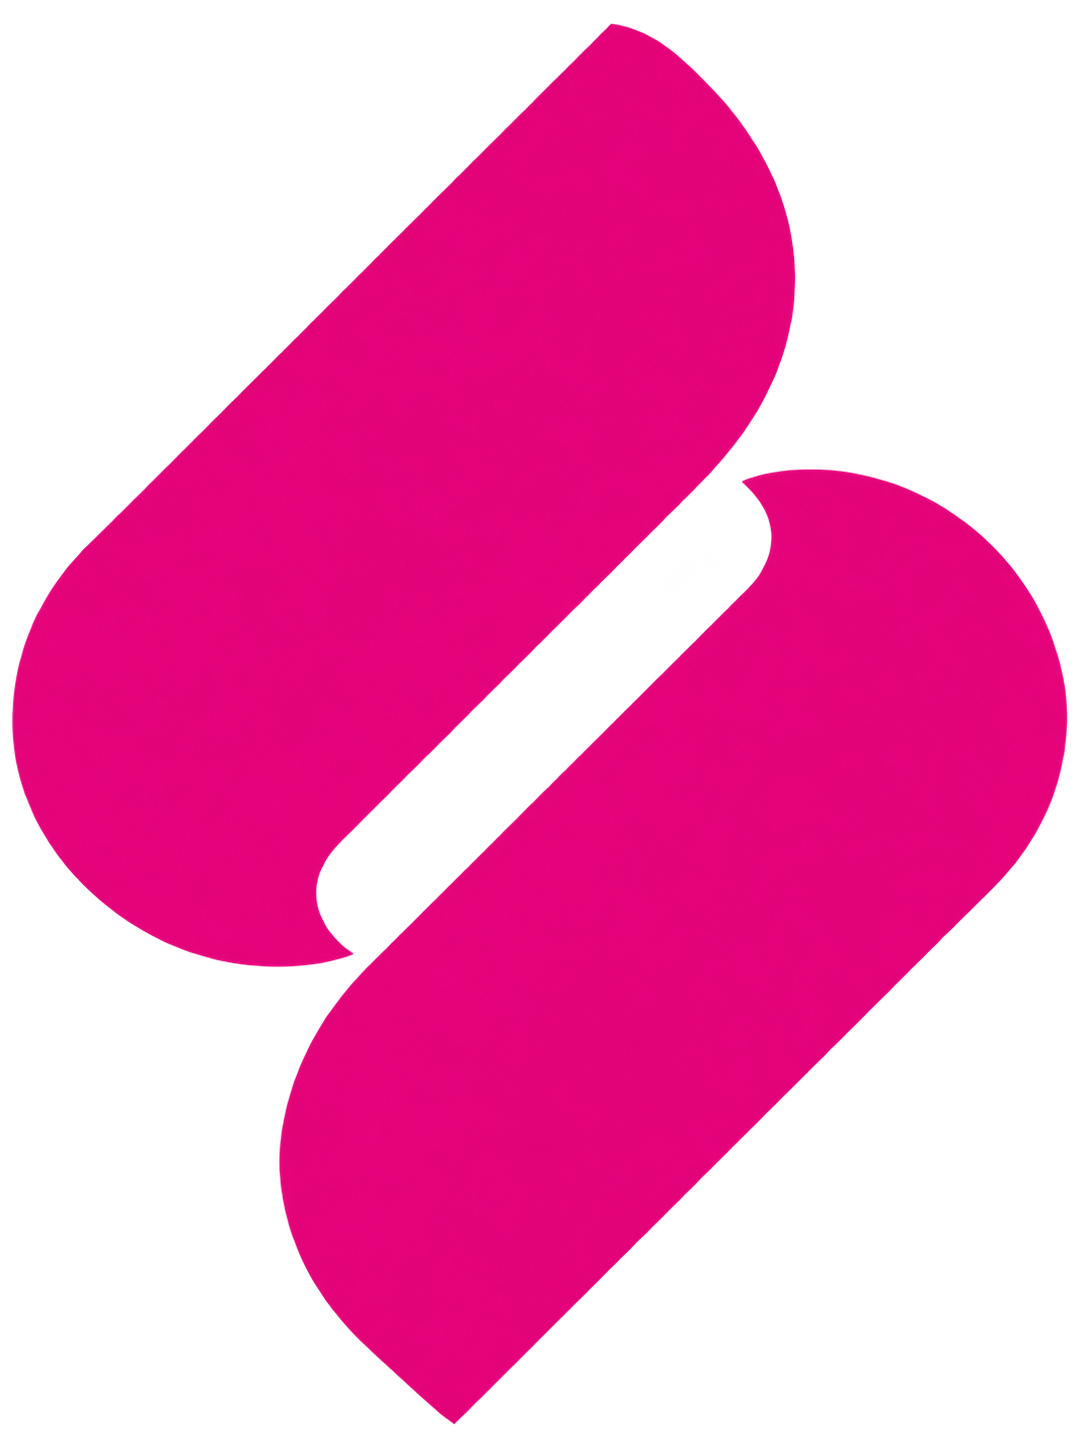
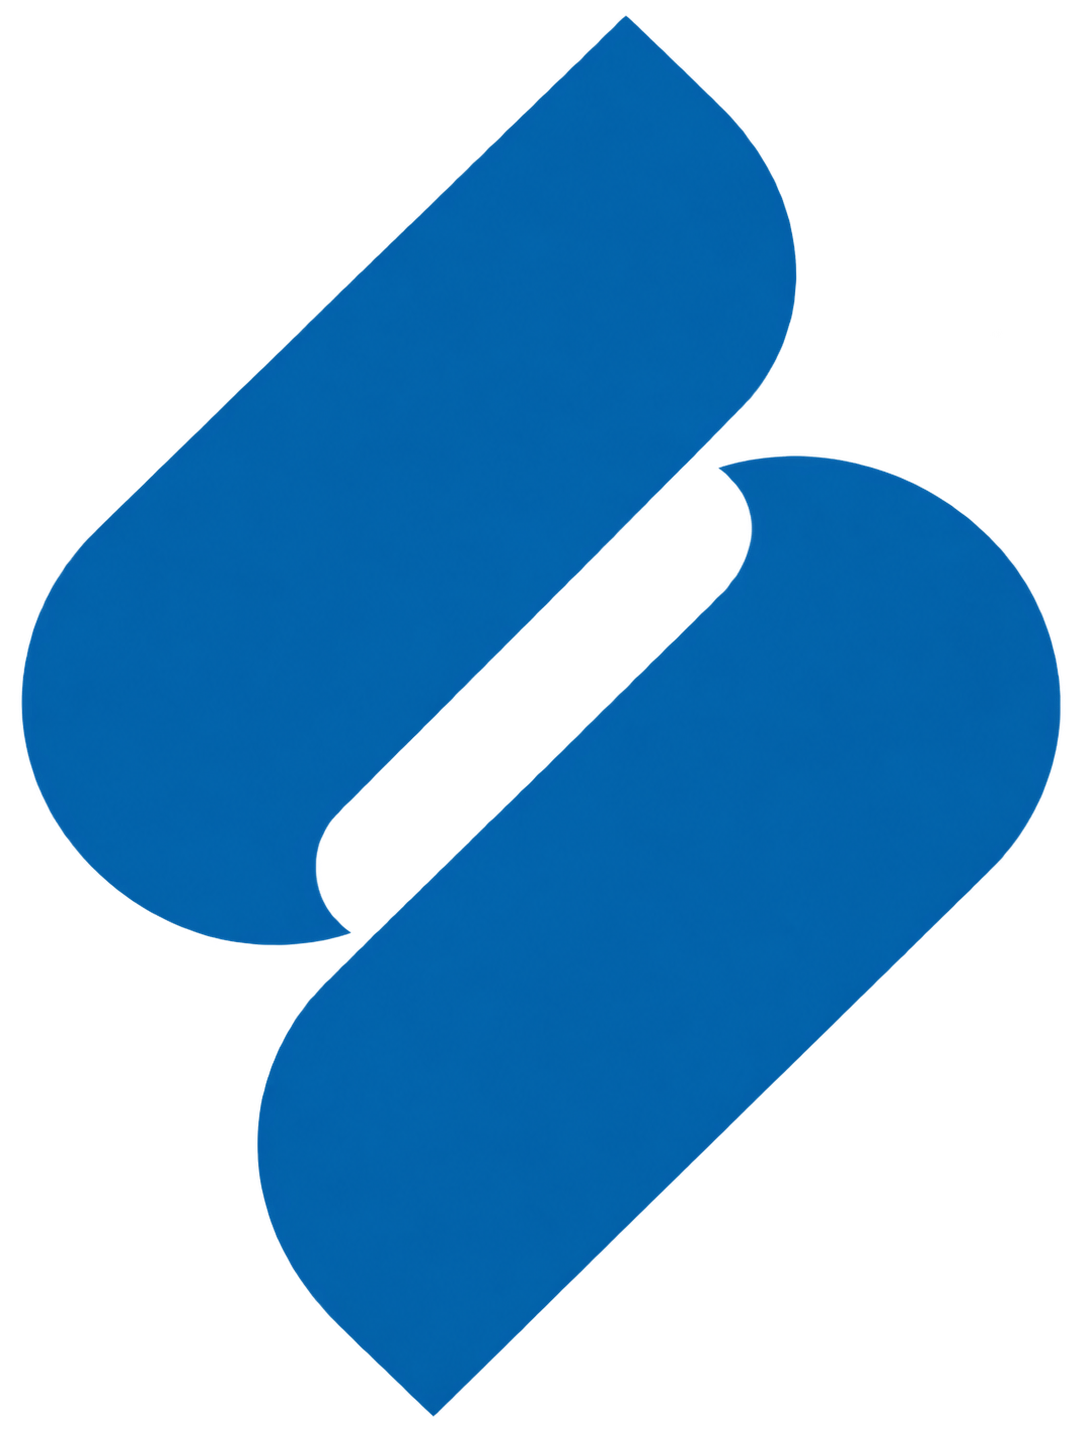
Rebrand line to Sagama Industrial
Same code as Maxi, swapped brand surface only:
- Primary color magenta (#e6007e/#b8005f) -> blue (#006fb5/#005991)
  across globals.css theme tokens, sidebar/header brand-locked
  surfaces, and hardcoded header icon colors.
- Wordmark/background images pointed at the *_INDUSTRIAL branding
  assets; unused Maxi images removed. app icon.png swapped for the
  Industrial mark; generated public/branding/icon-square.png (push
  notification icon) by recoloring/cropping it to match the other
  lines' padding.
- "Sagama Maxi" text/alt/aria-label copy -> "Sagama Industrial".
- App title XLR9-MX -> XLR9-IN, theme picker entry "Magenta" -> "Azure".
- Replaced docker-build-maxi.yml with docker-build-industrial.yml,
  builds ghcr.io/soportetisagama-lab/wacrm:xlr9-industrial from
  INDUSTRIAL_-prefixed repo secrets on push to xlr9-industrial.

diff --git a/src/components/layout/header.tsx b/src/components/layout/header.tsx
@@ -90,12 +90,12 @@ export function Header({
             header's secondary controls; the mobile header is already
             tight with the hamburger + title. */}
         <div className="hidden shrink-0 items-center gap-1.5 sm:flex">
-          <FullscreenToggle className="h-10 w-10 shrink-0 rounded-full border-2 border-white/15 bg-white text-[#e6007e] shadow-[0_3px_10px_rgba(0,0,0,0.25)] transition-all duration-300 hover:scale-[1.07] hover:border-white/30 hover:bg-[#162028] hover:text-white" />
+          <FullscreenToggle className="h-10 w-10 shrink-0 rounded-full border-2 border-white/15 bg-white text-[#006fb5] shadow-[0_3px_10px_rgba(0,0,0,0.25)] transition-all duration-300 hover:scale-[1.07] hover:border-white/30 hover:bg-[#162028] hover:text-white" />
           {onToggleSidebarCollapsed && (
             <SidebarCollapseToggle
               collapsed={sidebarCollapsed}
               onToggle={onToggleSidebarCollapsed}
-              className="h-10 w-10 shrink-0 rounded-full border-2 border-white/15 bg-white text-[#e6007e] shadow-[0_3px_10px_rgba(0,0,0,0.25)] transition-all duration-300 hover:scale-[1.07] hover:border-white/30 hover:bg-[#162028] hover:text-white"
+              className="h-10 w-10 shrink-0 rounded-full border-2 border-white/15 bg-white text-[#006fb5] shadow-[0_3px_10px_rgba(0,0,0,0.25)] transition-all duration-300 hover:scale-[1.07] hover:border-white/30 hover:bg-[#162028] hover:text-white"
             />
           )}
         </div>
@@ -106,7 +106,7 @@ export function Header({
       </div>
 
       <div className="flex items-center gap-1.5 sm:gap-2.5">
-        <ModeToggle className="h-10 w-10 shrink-0 rounded-full border-2 border-white/15 bg-white text-[#e6007e] shadow-[0_3px_10px_rgba(0,0,0,0.25)] transition-all duration-300 hover:scale-[1.07] hover:border-white/30 hover:bg-[#162028] hover:text-white" />
+        <ModeToggle className="h-10 w-10 shrink-0 rounded-full border-2 border-white/15 bg-white text-[#006fb5] shadow-[0_3px_10px_rgba(0,0,0,0.25)] transition-all duration-300 hover:scale-[1.07] hover:border-white/30 hover:bg-[#162028] hover:text-white" />
 
         {/* Notifications â€” same unread count the sidebar's nav item
             surfaces, mirrored here as a quick-glance bell. */}
@@ -156,7 +156,7 @@ export function Header({
                 alt={profile.full_name ?? t("defaultAvatar")}
               />
             ) : null}
-            <AvatarFallback className="bg-white text-sm font-medium text-[#e6007e]">
+            <AvatarFallback className="bg-white text-sm font-medium text-[#006fb5]">
               {initial}
             </AvatarFallback>
           </Avatar>

diff --git a/src/app/globals.css b/src/app/globals.css
@@ -142,13 +142,13 @@ html[data-mode="light"] {
 
 :root,
 html[data-theme="violet"] {
-  --primary: #e6007e;
+  --primary: #006fb5;
   --primary-foreground: #ffffff;
-  --primary-hover: #f0339c;
-  --primary-soft: rgba(230, 0, 126, 0.12);
-  --primary-soft-2: rgba(230, 0, 126, 0.22);
-  --ring: #e6007e;
-  --chart-1: #e6007e;
+  --primary-hover: #338cc4;
+  --primary-soft: rgba(0, 111, 181, 0.12);
+  --primary-soft-2: rgba(0, 111, 181, 0.22);
+  --ring: #006fb5;
+  --chart-1: #006fb5;
 }
 
 html[data-theme="emerald"] {
@@ -196,7 +196,7 @@ html[data-theme="rose"] {
 }
 
 /* ---- SIDEBAR: brand-locked surface ----
- * The primary nav is a fixed brand element (Sagama Maxi magenta),
+ * The primary nav is a fixed brand element (Sagama Industrial blue),
  * independent of the MODE/ACCENT system above — it doesn't change with
  * light/dark mode or the user's chosen accent color. --sidebar-accent-dim
  * and --sidebar-sub aren't part of shadcn's default sidebar token set;
@@ -207,10 +207,10 @@ html[data-theme="rose"] {
   --sidebar-border: rgba(255, 255, 255, 0.08);
   --sidebar-accent: rgba(255, 255, 255, 0.05);
   --sidebar-accent-foreground: #ffffff;
-  --sidebar-accent-dim: rgba(230, 0, 126, 0.16);
-  --sidebar-primary: #e6007e;
+  --sidebar-accent-dim: rgba(0, 111, 181, 0.16);
+  --sidebar-primary: #006fb5;
   --sidebar-primary-foreground: #ffffff;
-  --sidebar-ring: #e6007e;
+  --sidebar-ring: #006fb5;
   --sidebar-sub: #1c252e;
 }
 
@@ -218,8 +218,8 @@ html[data-theme="rose"] {
  * The topbar is a fixed brand element too, same rationale as the
  * SIDEBAR block above — independent of light/dark mode. */
 :root {
-  --header-bg: #e6007e;
-  --header-bg-2: #b8005f;
+  --header-bg: #006fb5;
+  --header-bg-2: #005991;
 }
 
 /* Notification bell — ring wobble on the icon, an expanding pulse ring

diff --git a/src/components/auth/auth-logo-header.tsx b/src/components/auth/auth-logo-header.tsx
@@ -1,7 +1,7 @@
 import Image from 'next/image';
 
 // Shared header for the "form" state of each auth screen: the Sagama
-// Maxi wordmark, an optional bold heading, and an optional description
+// Industrial wordmark, an optional bold heading, and an optional description
 // line.
 export function AuthLogoHeader({
   title,
@@ -19,8 +19,8 @@ export function AuthLogoHeader({
           actually grow (~10-14%) instead of the cap silently doing
           nothing. */}
       <Image
-        src="/branding/BIENVENIDO_MAXI.png"
-        alt="Bienvenido a Sagama Maxi"
+        src="/branding/BIENVENIDO_INDUSTRIAL.png"
+        alt="Bienvenido a Sagama Industrial"
         width={862}
         height={134}
         priority

diff --git a/src/components/auth/welcome-splash.tsx b/src/components/auth/welcome-splash.tsx
@@ -33,15 +33,15 @@ export function WelcomeSplash({ onFinish }: { onFinish: () => void }) {
       )}
       role="status"
       aria-live="polite"
-      aria-label="Cargando Sagama Maxi CRM"
+      aria-label="Cargando Sagama Industrial CRM"
     >
       <div className={styles.splashBg} />
       <div className={styles.splashGlow} />
 
       <div className="relative z-10 flex flex-col items-center">
         <Image
-          src="/branding/SAGAMA_MAXI.png"
-          alt="Sagama Maxi"
+          src="/branding/SAGAMA_INDUSTRIAL.png"
+          alt="Sagama Industrial"
           width={300}
           height={93}
           priority

diff --git a/src/components/layout/sidebar.tsx b/src/components/layout/sidebar.tsx
@@ -355,8 +355,8 @@ export function Sidebar({ open = false, onClose, collapsed = false }: SidebarPro
         >
           <Link href="/dashboard" className="flex items-center justify-center">
             <Image
-              src="/branding/SAGAMAMENU_MAXI.png"
-              alt="Sagama Maxi CRM"
+              src="/branding/SAGAMAMENU_INDUSTRIAL.png"
+              alt="Sagama Industrial CRM"
               width={882}
               height={283}
               priority

diff --git a/src/app/(dashboard)/dashboard-shell.tsx b/src/app/(dashboard)/dashboard-shell.tsx
@@ -217,8 +217,8 @@ function EmbeddedShell({
               ratio, so it can't stretch/distort no matter what width is
               picked here. */}
           <Image
-            src="/branding/SAGAMAMENU_MAXI.png"
-            alt="Sagama Maxi CRM"
+            src="/branding/SAGAMAMENU_INDUSTRIAL.png"
+            alt="Sagama Industrial CRM"
             width={882}
             height={283}
             priority

diff --git a/src/components/auth/auth-shell.tsx b/src/components/auth/auth-shell.tsx
@@ -22,7 +22,7 @@ export function AuthShell({ children }: { children: ReactNode }) {
           on the card relies on to have something real to blur. */}
       <div className="absolute inset-0 -z-10" aria-hidden="true">
         <Image
-          src="/branding/loginfondo_maxi.png"
+          src="/branding/loginfondo_industrial.png"
           alt=""
           fill
           priority

diff --git a/src/app/(auth)/signup/page.tsx b/src/app/(auth)/signup/page.tsx
@@ -141,7 +141,7 @@ function SignupPageInner() {
           subtitle={
             inviteToken
               ? 'Verifica tu email y luego acepta la invitación para unirte a tu equipo.'
-              : 'Completa tus datos para comenzar con Sagama Maxi CRM'
+              : 'Completa tus datos para comenzar con Sagama Industrial CRM'
           }
         />
 

diff --git a/src/lib/themes.ts b/src/lib/themes.ts
@@ -69,9 +69,9 @@ export interface ThemeMeta {
 export const THEMES: ReadonlyArray<ThemeMeta> = [
   {
     id: "violet",
-    name: "Magenta",
+    name: "Azure",
     tagline: "The default — confident, slightly playful.",
-    swatch: "#e6007e",
+    swatch: "#006fb5",
   },
   {
     id: "emerald",

diff --git a/src/app/layout.tsx b/src/app/layout.tsx
@@ -22,8 +22,8 @@ const inter = Inter({
 
 export const metadata: Metadata = {
   title: {
-    default: "XLR9-MX",
-    template: "%s — XLR9-MX",
+    default: "XLR9-IN",
+    template: "%s — XLR9-IN",
   },
   description: "Self-hostable CRM template for WhatsApp.",
   robots: {
